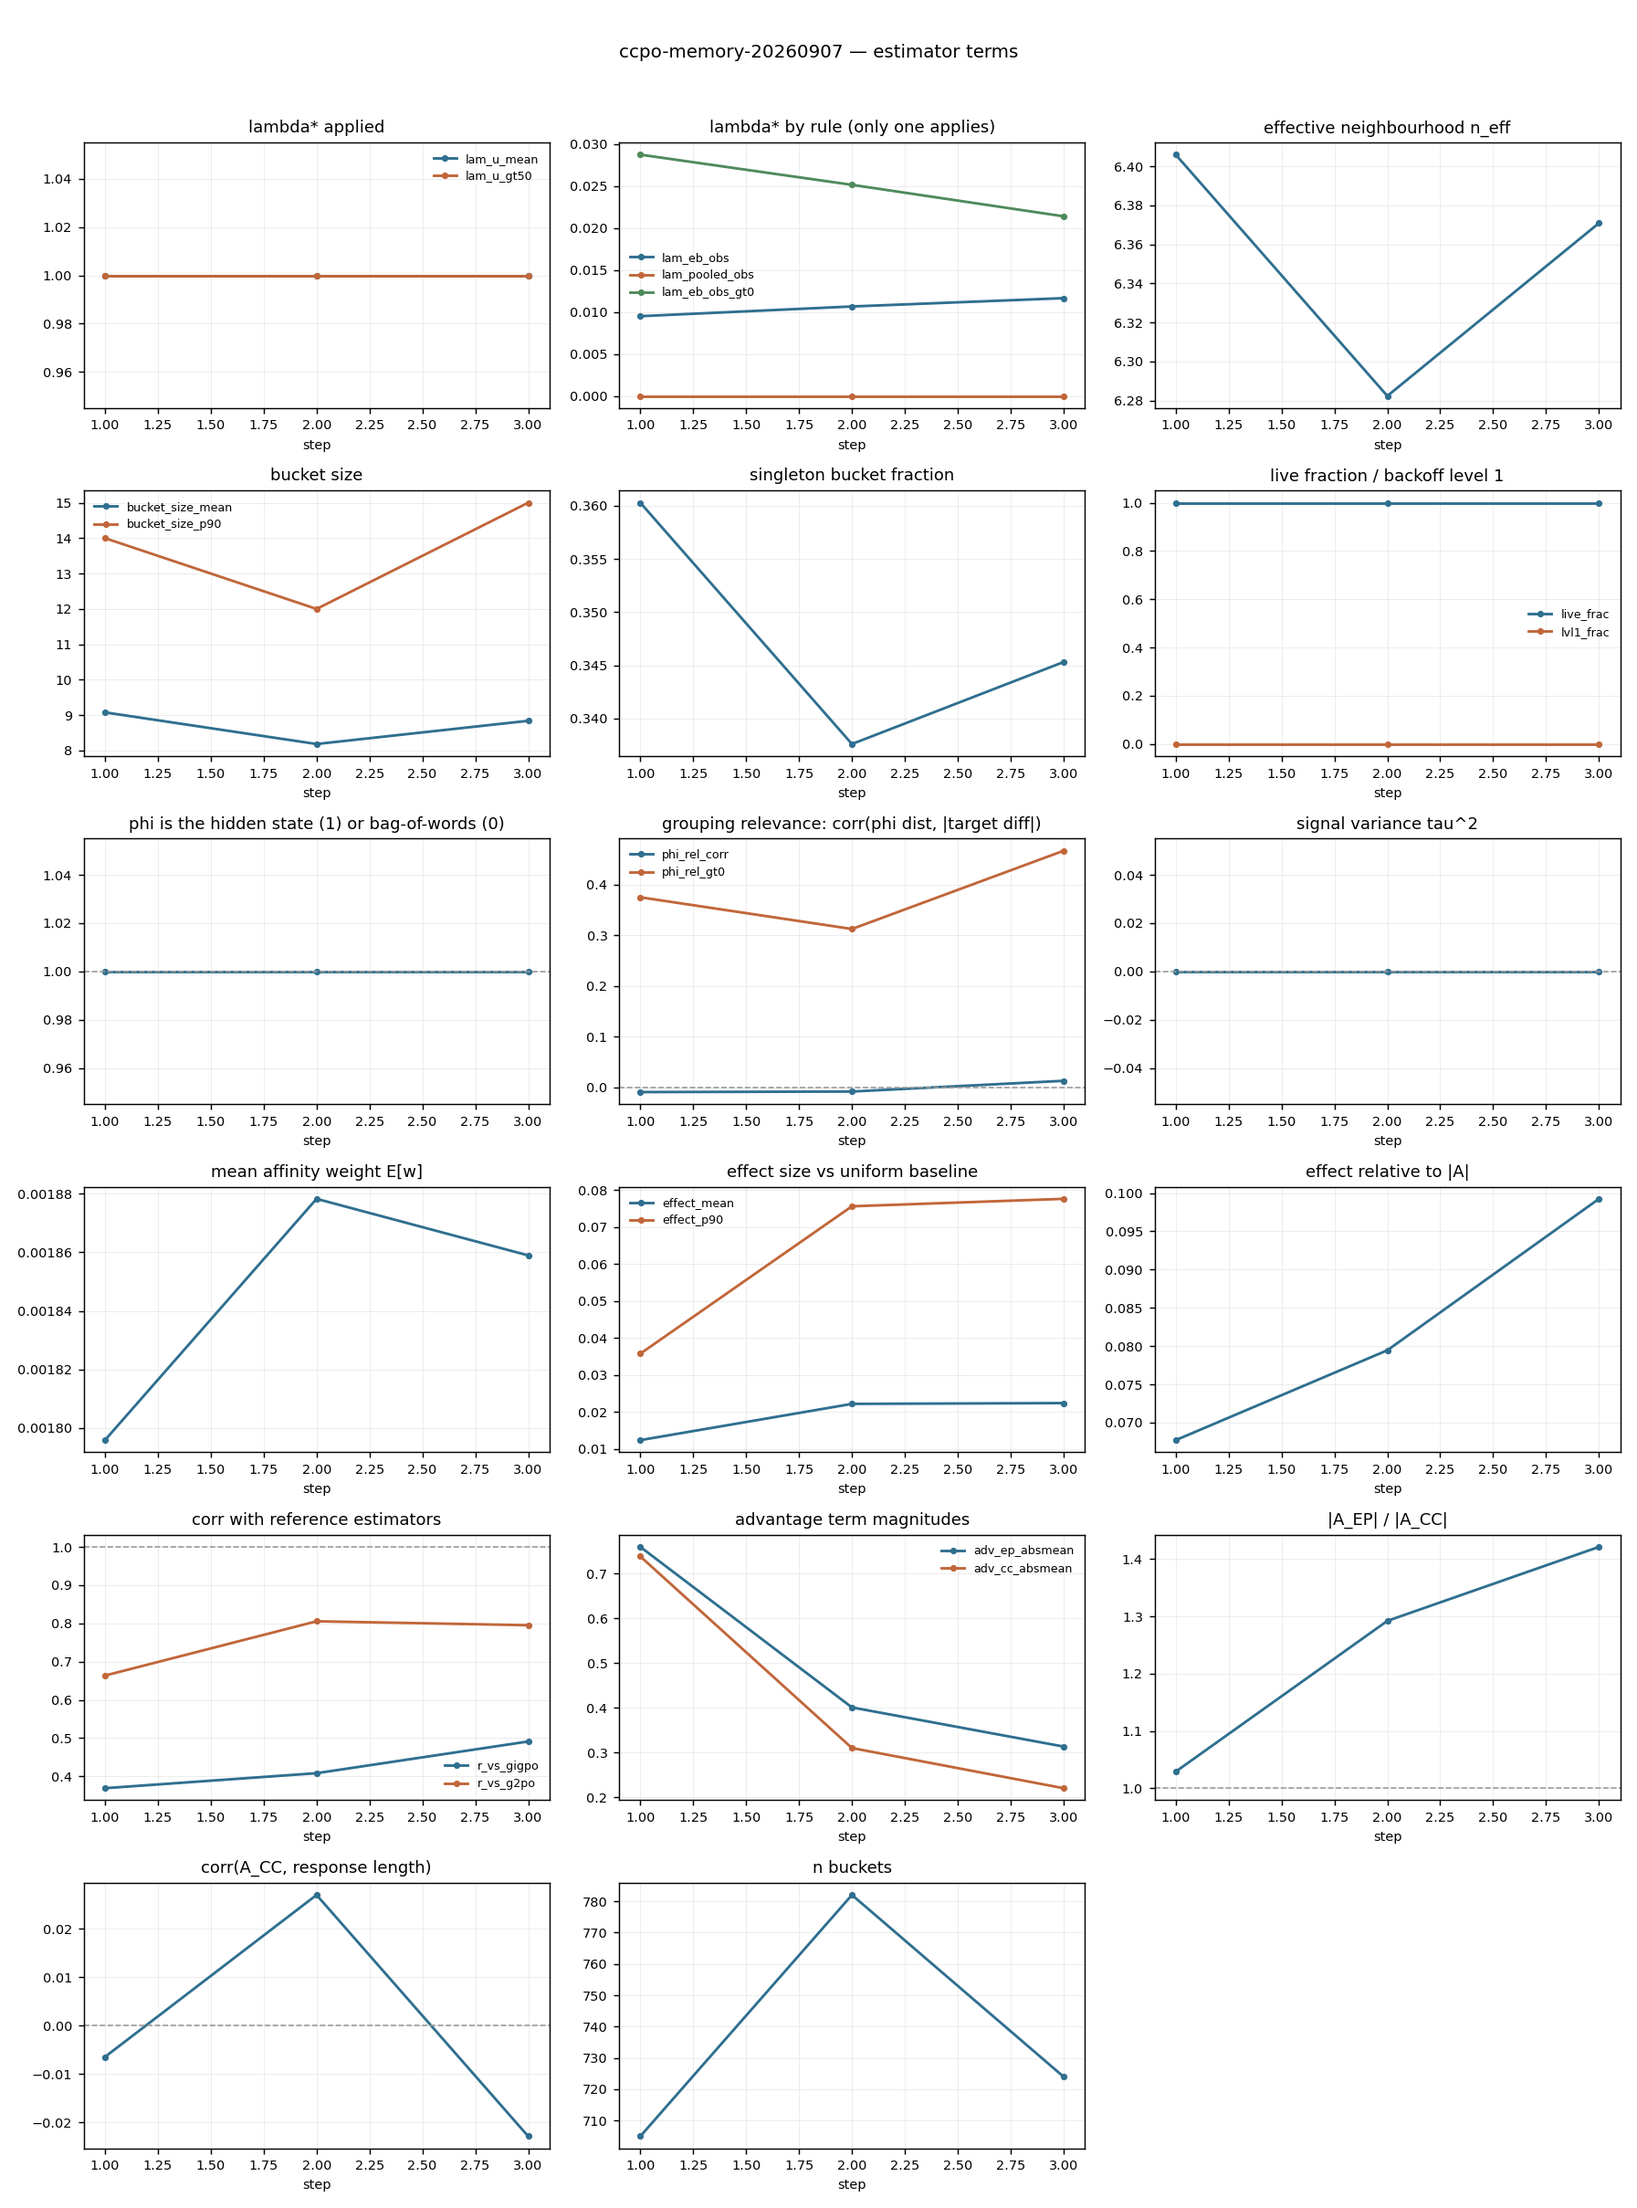
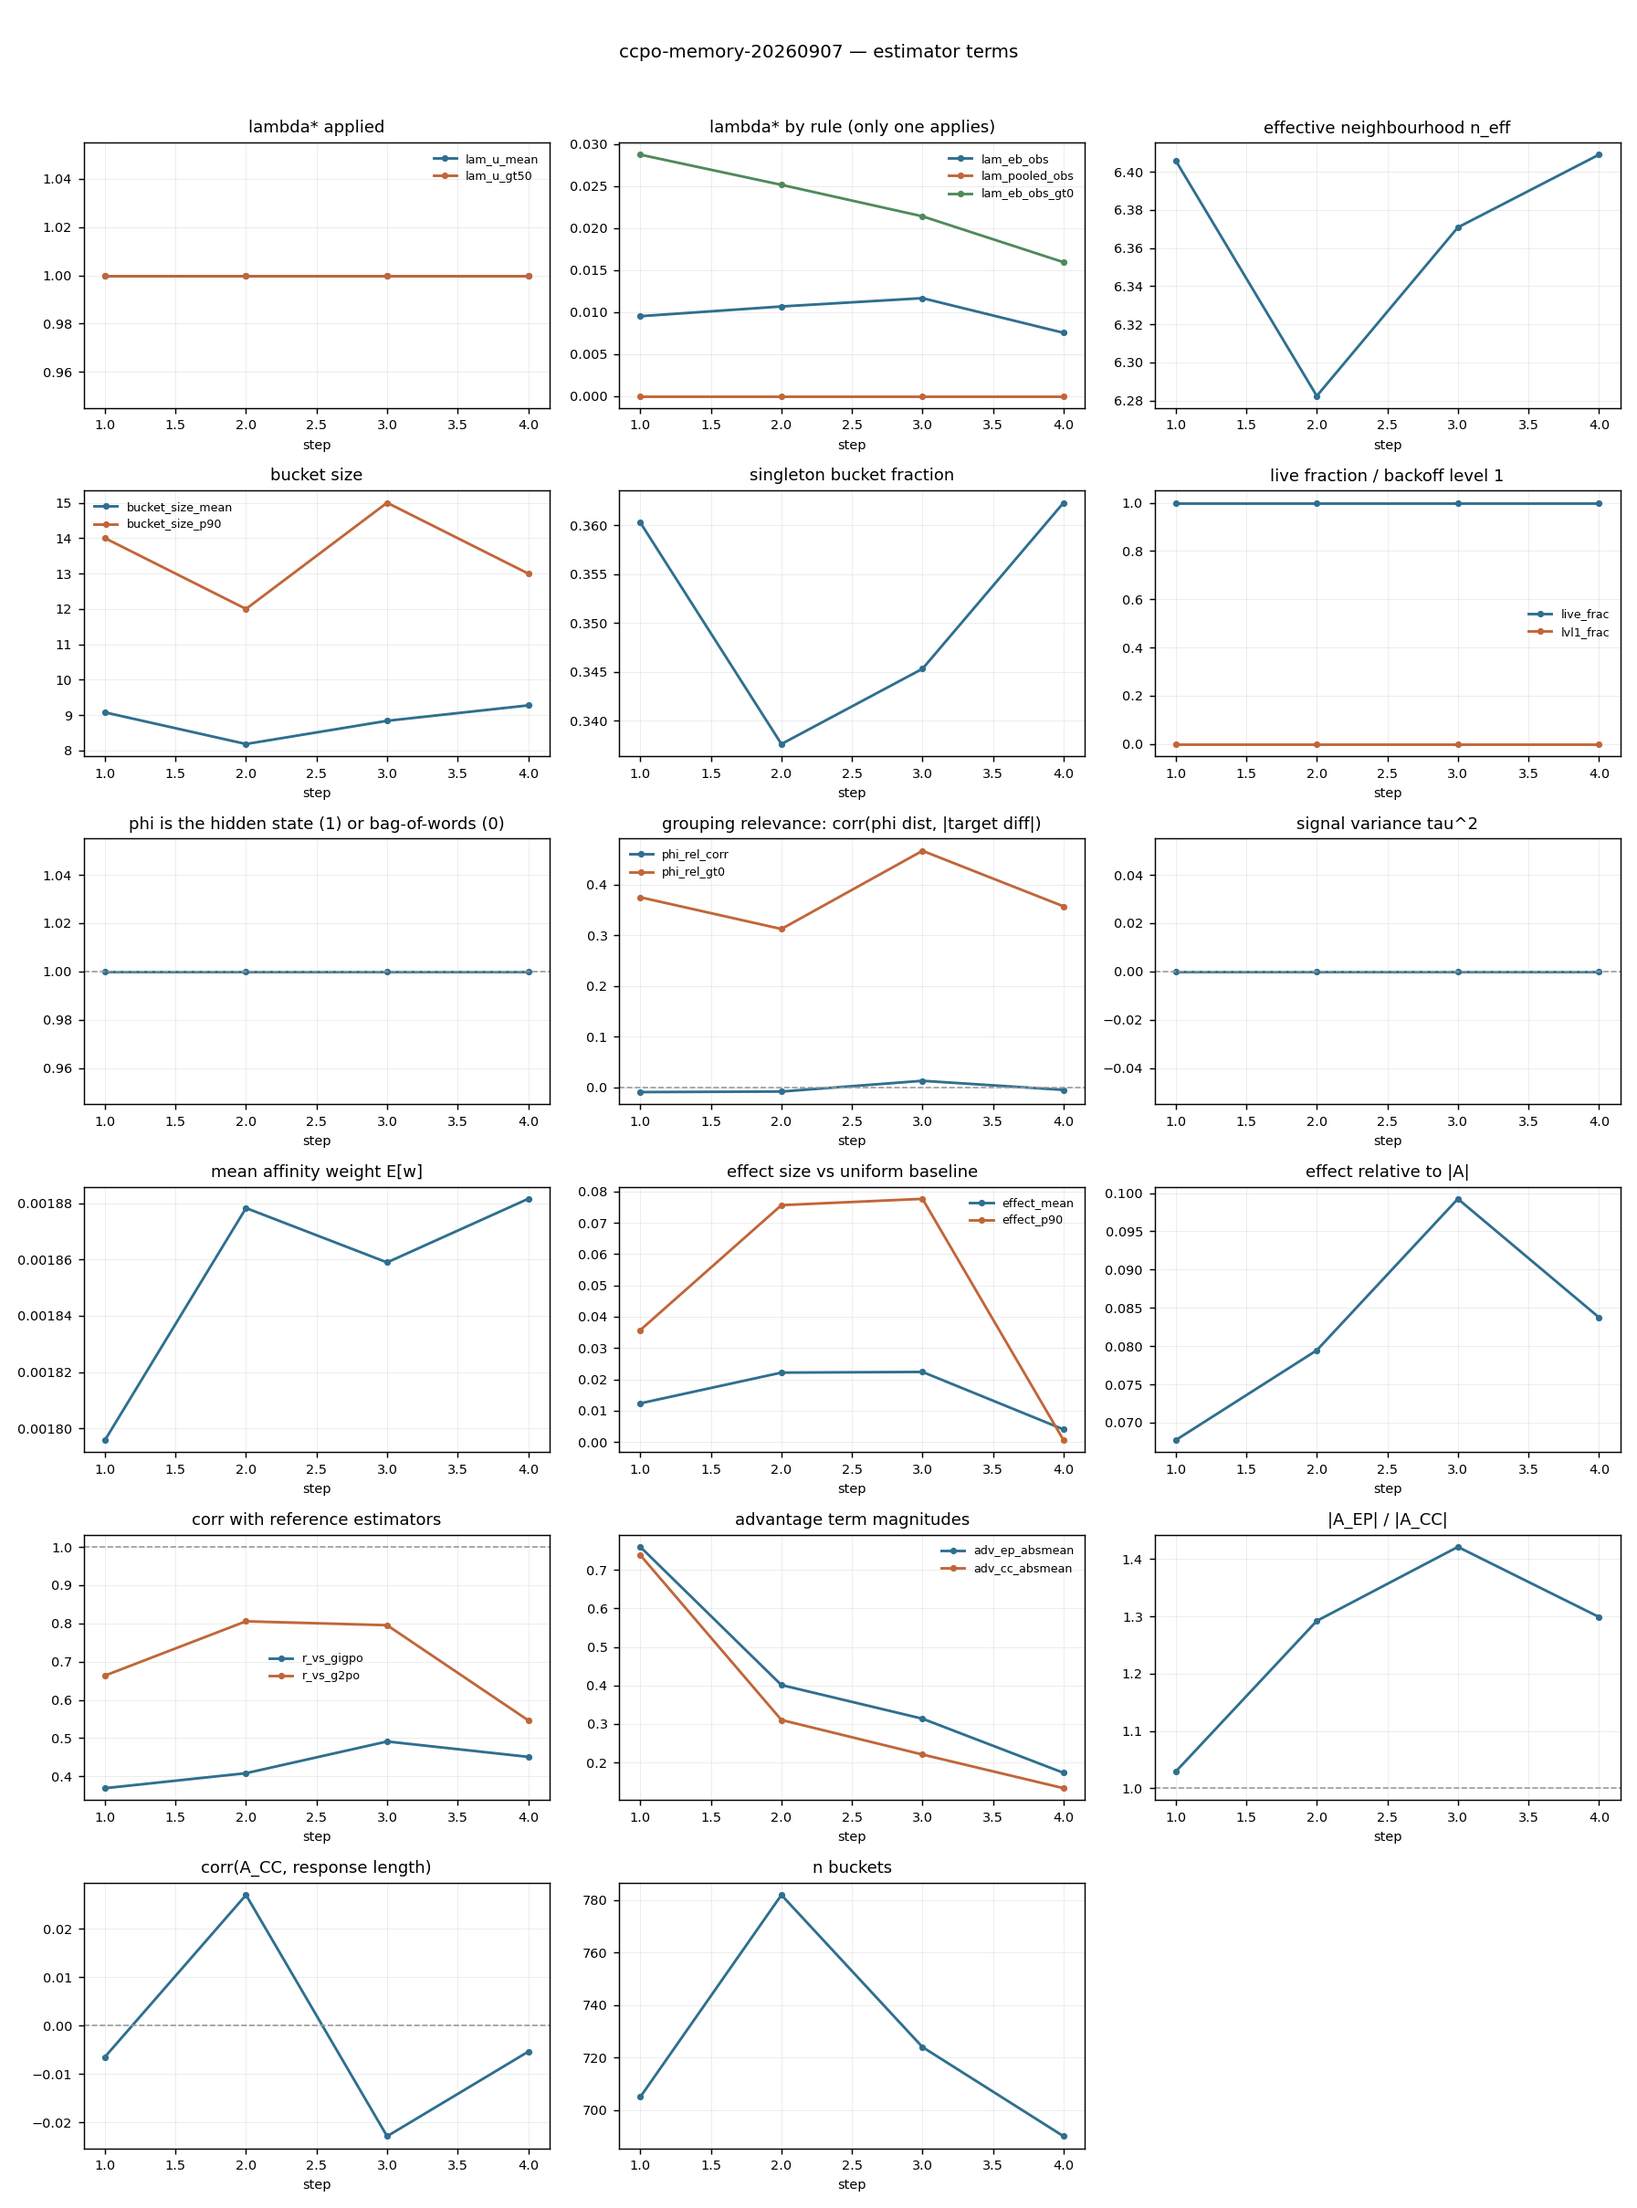
method.html: fix figure 2 text overflow and two stale SVG legends
Figure 2's phi formula ran past the 560-wide viewBox and rendered clipped mid-word
('|| r'). Shortened h_last-prompt-tok to h_lastprompt and dropped the font to 8.6.

Figure 2's footer still read 'frozen, seeded, never trained', which described the
random projection P of the bag-of-words phi. The observation half is now the frozen
reference policy's hidden state, so the line now says that.

Figure 4's legend still defined B = bias prior (0.30 sd), a symbol no longer in the
formula above it after the switch to hierarchical empirical Bayes. Replaced with tau^2
and its measured value. The two dial-behaviour lines above the slider now distinguish
intended behaviour from the measured lambda = 0.011.

Added a width check over every SVG text node; no overflows remain.

Claude-Session: https://claude.ai/code/session_01TnVw4qcXikRNMjxhmmuJXY

diff --git a/docs/method.html b/docs/method.html
@@ -515,8 +515,8 @@ td .m{font-family:"IBM Plex Mono",monospace; font-size:.93em}
           <text x="158" y="46" font-size="9.5" class="mono">→ 8 cells on</text>
         </g>
         <rect x="8" y="128" width="424" height="30" rx="3" fill="var(--accent-soft)" stroke="var(--accent)"/>
-        <text x="16" y="147" font-size="9.5" class="mono">φ = norm([ whiten(h_last-prompt-tok) ‖ thermo(t, n_uniq, prog) ‖ revisit ])</text>
-        <text x="8" y="178" font-size="10" class="dim">frozen, seeded, never trained — nothing about the grouping can co-adapt with the policy (R1)</text>
+        <text x="16" y="147" font-size="8.6" class="mono">φ = norm([ whiten(h_lastprompt) ‖ thermo(t, n_uniq, prog) ‖ revisit ])</text>
+        <text x="8" y="178" font-size="9.4" class="dim">from the FROZEN reference policy — the grouping cannot co-adapt with the trained policy (R1)</text>
       </svg>
       <div class="cap"><strong>Thermometer coding</strong> makes φ-distance monotone in context difference: t=4 vs t=19
       differ in 6 of 12 cells, t=4 vs t=5 in ≤1 — unlike hashed tags, where step 1 vs 28 looked no farther apart than
@@ -602,9 +602,9 @@ td .m{font-family:"IBM Plex Mono",monospace; font-size:.93em}
         <text x="268" y="114" font-size="10" class="dim">full conditioning (λ→1)</text>
         <rect x="8" y="130" width="424" height="26" rx="3" fill="var(--sunk)"/>
         <text x="16" y="147" font-size="10.5" class="mono">λ_i = τ² / ( τ² + ρ²σ²(1/n_eff − 1/J) )&nbsp;&nbsp;[hard gate only]</text>
-        <text x="8" y="176" font-size="9" class="dim">B = bias prior (0.30 sd, measured) · ρ = metric confidence · n_eff / J = effective / total neighbors</text>
-        <text x="30" y="16" font-size="9.5" class="dim">contexts indistinguishable, or all-identical returns → λ→0: gracefully G²PO</text>
-        <text x="30" y="30" font-size="9.5" class="dim">clear contrast + enough close neighbors → λ→1: trust the conditioning</text>
+        <text x="8" y="176" font-size="9" class="dim">τ² = batch-pooled signal variance (measured ≈ 0) · ρ = metric confidence · n_eff/J = eff./total nbrs</text>
+        <text x="30" y="16" font-size="9.5" class="dim">intended: contexts indistinguishable → λ→0 (gracefully G²PO)</text>
+        <text x="30" y="30" font-size="9.5" class="dim">measured on the hard gate: λ = 0.011 — τ² ≈ 0, no signal to trust</text>
       </svg>
       <div class="cap"><b>Revised 2026-09-07 — this dial is not in the shipped path.</b> Two changes. The MSE form
       <span class="m">(ρB)²/((ρB)²+σ²(1/n_eff−1/J))</span> is superseded by hierarchical empirical Bayes, where τ² is
